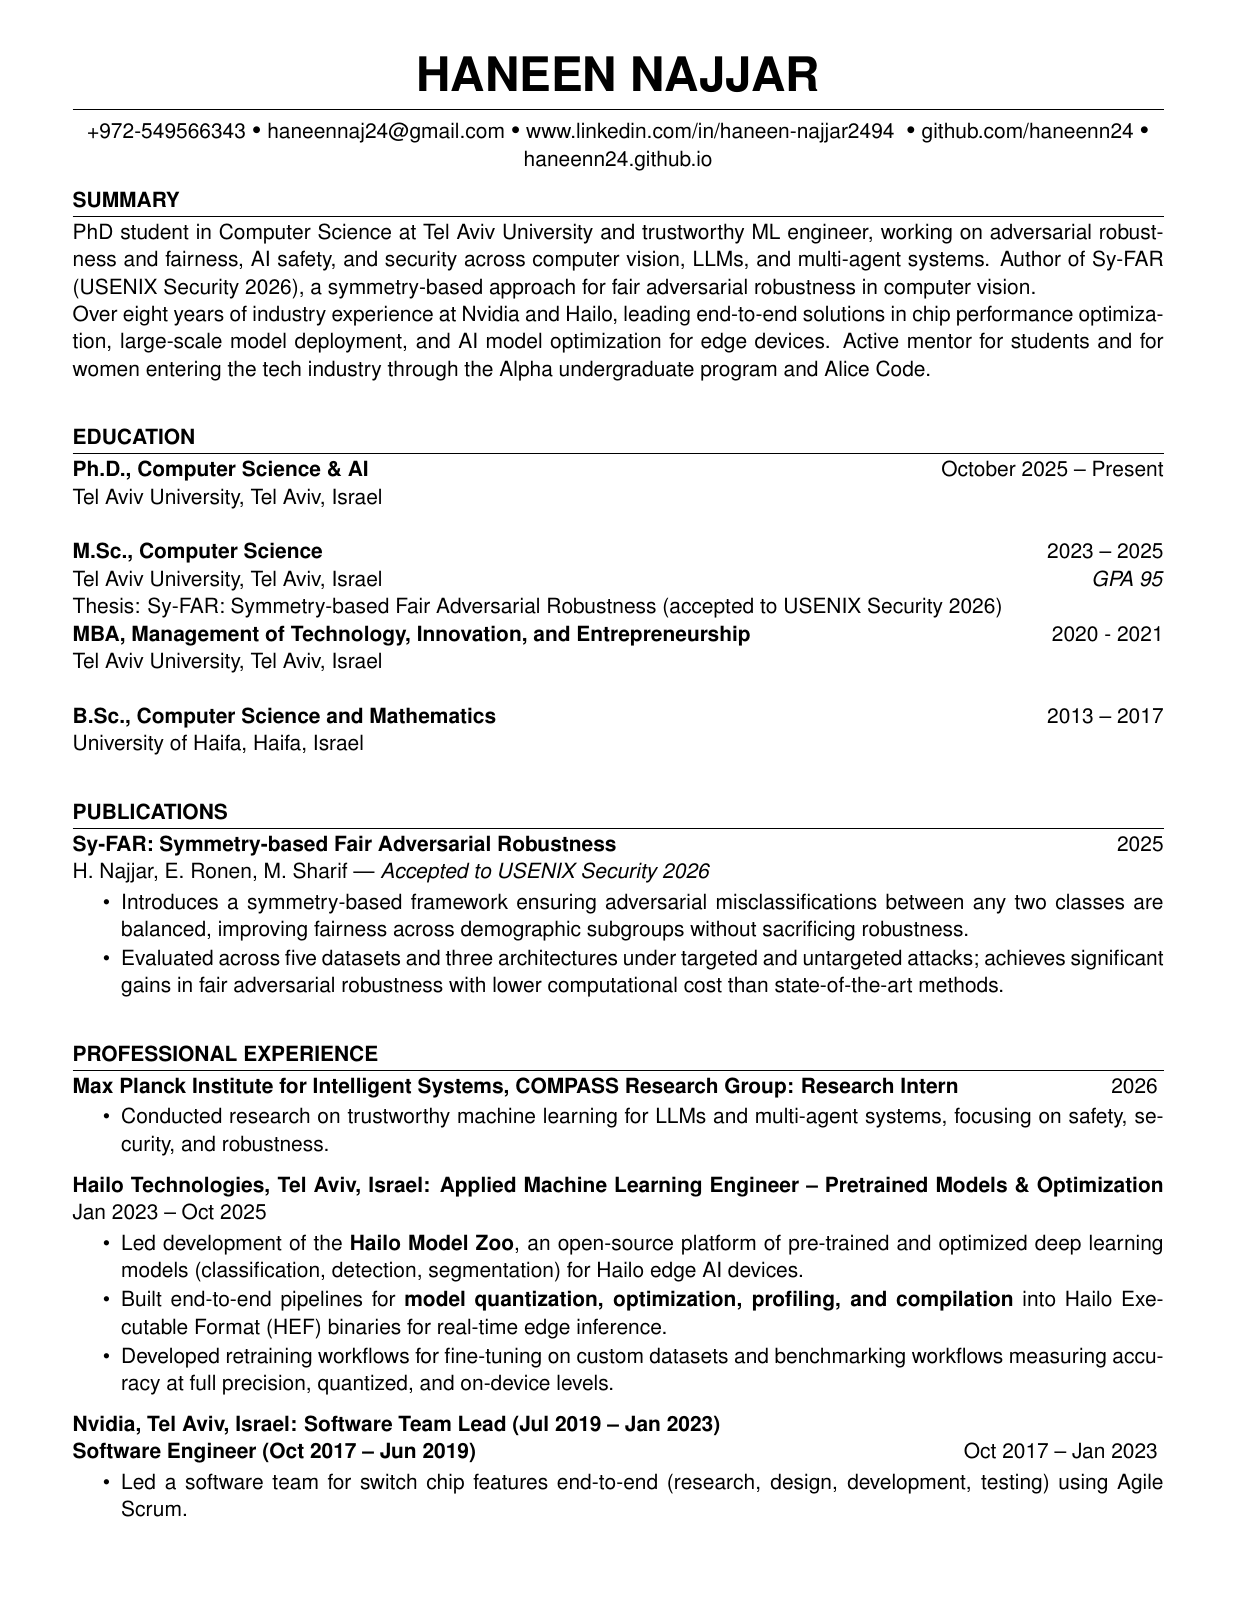
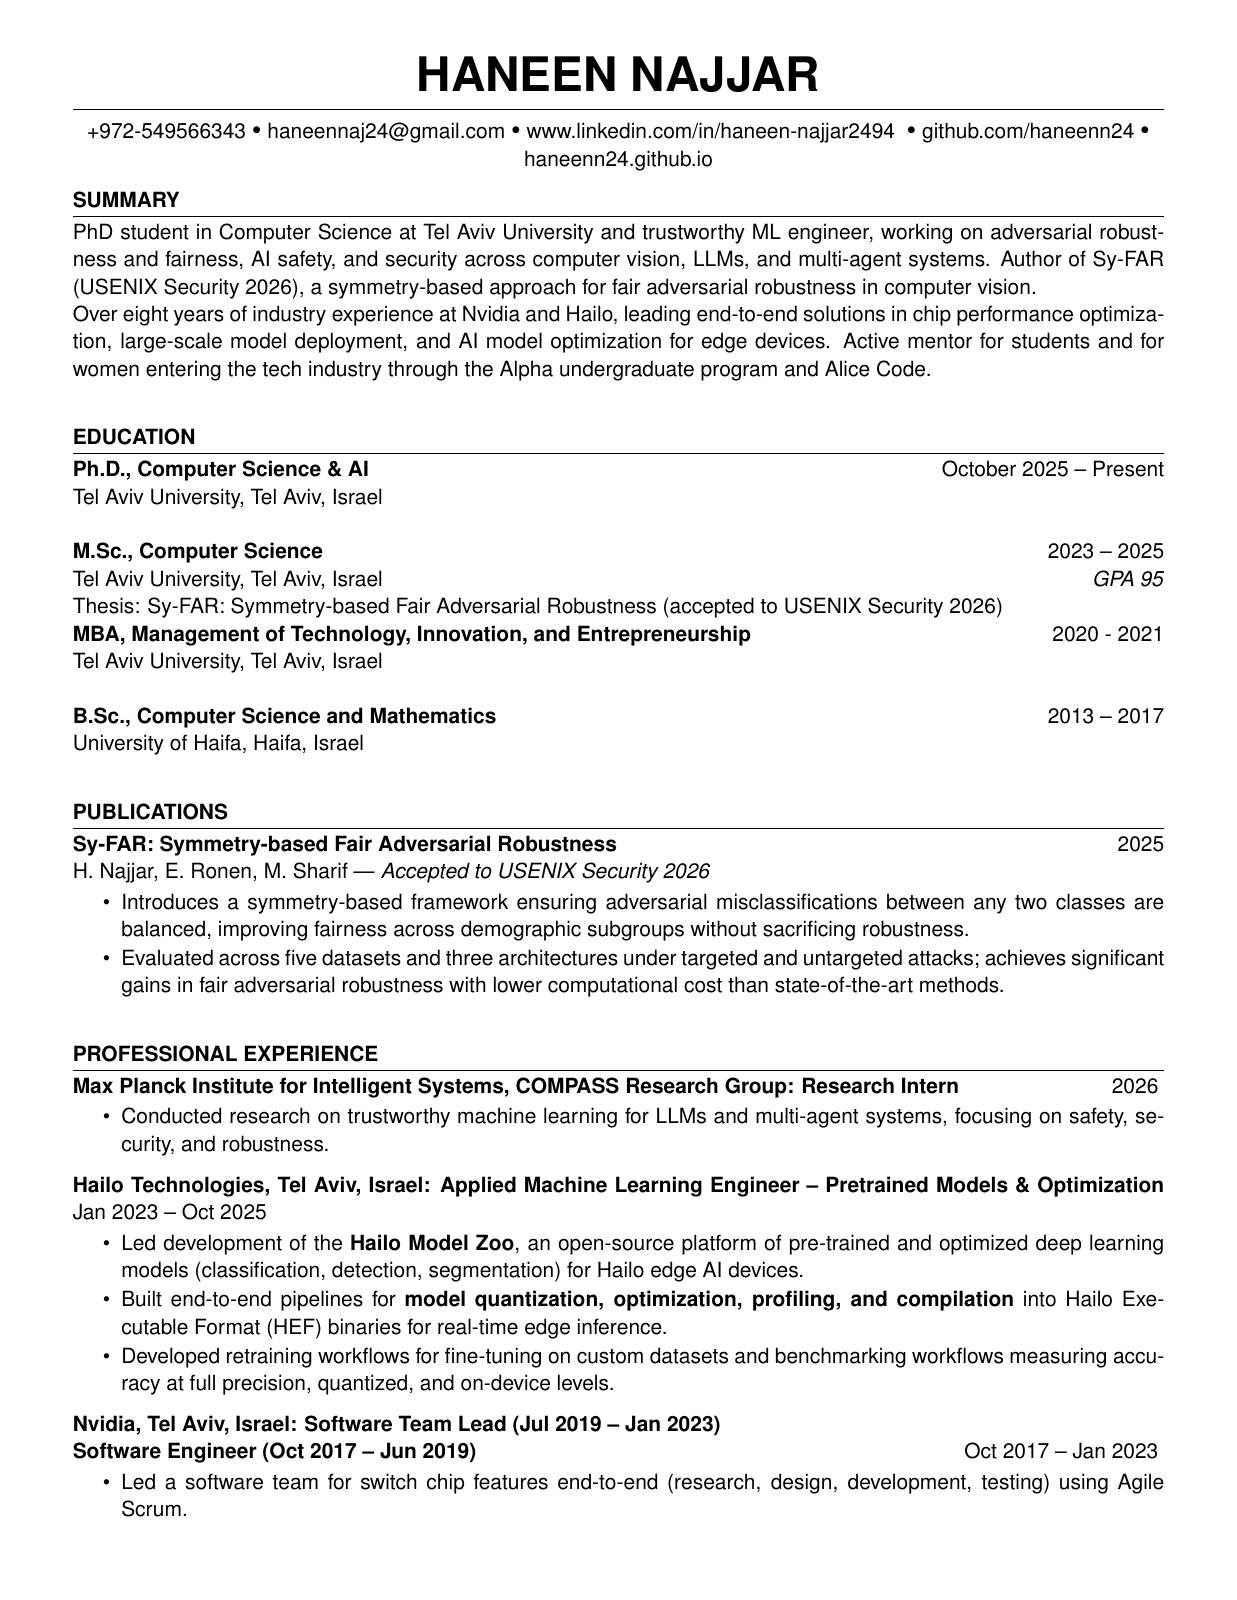
Update CV with Academic Service and new awards

diff --git a/_pages/cv.md b/_pages/cv.md
@@ -18,6 +18,6 @@ redirect_from:
 <div class="cv-pages" aria-label="CV preview">
   <a href="{{ '/files/haneen_cv.pdf' | relative_url }}" aria-label="Read the full CV as a PDF">
     <img src="{{ '/images/cv/haneen-cv-1.png' | relative_url }}" alt="CV page 1: summary, education, publications, and professional experience. Full text available in the linked PDF." width="1237" height="1600">
-    <img src="{{ '/images/cv/haneen-cv-2.png' | relative_url }}" alt="CV page 2: professional experience continued, technical skills, awards, and volunteering. Full text available in the linked PDF." width="1237" height="1600" loading="lazy">
+    <img src="{{ '/images/cv/haneen-cv-2.png' | relative_url }}" alt="CV page 2: professional experience continued, technical skills, awards, academic service, and volunteering. Full text available in the linked PDF." width="1237" height="1600" loading="lazy">
   </a>
 </div>
